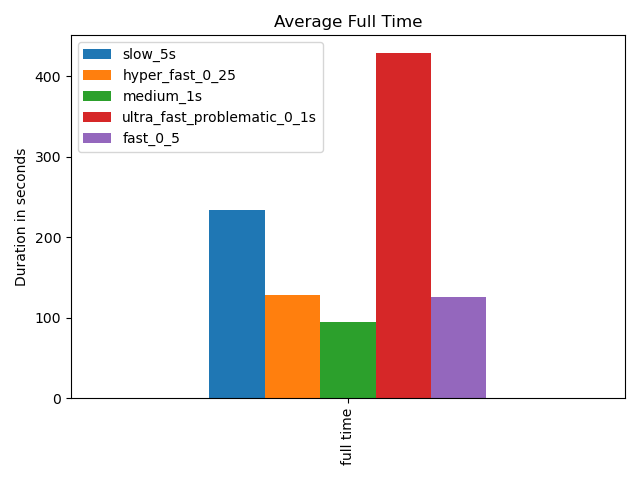
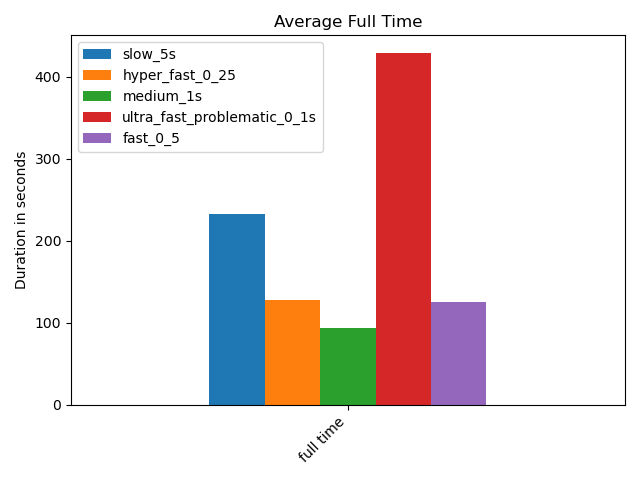
pfusch

diff --git a/iot/benchmark.py b/iot/benchmark.py
@@ -53,6 +53,7 @@ def bar_chart_of_metrics(datasets : dict):
     df_layers.plot(kind="bar")
     plt.title("Average Durations of Layers")
     plt.ylabel("Duration in seconds")
+    plt.xticks(rotation=45, ha="right")
     plt.tight_layout()
     plt.savefig("./graphs/averages_layers.png")
     plt.clf()
@@ -62,6 +63,7 @@ def bar_chart_of_metrics(datasets : dict):
     df_latency.plot(kind="bar")
     plt.title("Average Latency of Layers")
     plt.ylabel("Duration in seconds")
+    plt.xticks(rotation=45, ha="right")
     plt.tight_layout()
     plt.savefig("./graphs/averages_latency_all.png")
     plt.clf()
@@ -71,6 +73,7 @@ def bar_chart_of_metrics(datasets : dict):
     df_full_time.plot(kind="bar")
     plt.title("Average Full Time")
     plt.ylabel("Duration in seconds")
+    plt.xticks(rotation=45, ha="right")
     plt.tight_layout()
     plt.savefig("./graphs/averages_full_time.png")
     plt.clf()
